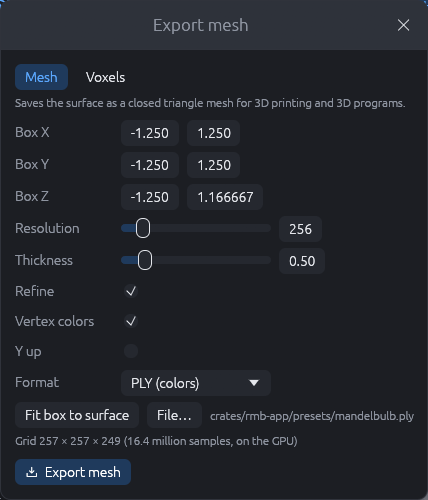
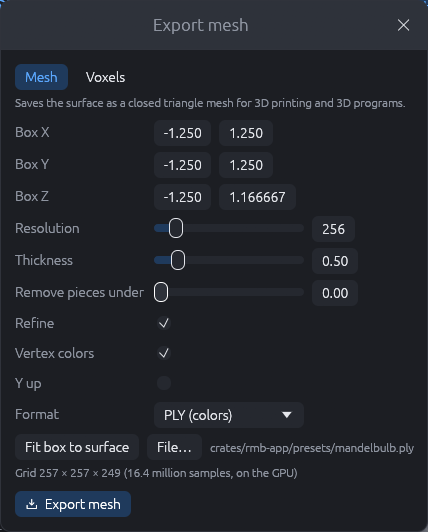
Remove loose mesh pieces and show the export box in the view
Mesh export can drop connected pieces with fewer triangles than a share
of the mesh (the dust around fractal surfaces; Remove pieces under,
rmb-cli mesh --min-piece) and reports how many went. While the mesh or
voxel window is open, the view draws the export box as a wire frame.

diff --git a/crates/rmb-core/src/mesh_export.rs b/crates/rmb-core/src/mesh_export.rs
@@ -72,11 +72,14 @@ pub struct MeshSettings {
     /// Writes y up instead of z up (x, z, -y).
     pub y_up: bool,
     pub format: MeshFormat,
+    /// Removes loose pieces with fewer triangles than this share of the whole mesh (percent;
+    /// 0 keeps everything): the dust around fractal surfaces.
+    pub min_piece: f64,
 }
 
 impl Default for MeshSettings {
     fn default() -> Self {
-        MeshSettings { min: v3(-1.5, -1.5, -1.5), max: v3(1.5, 1.5, 1.5), resolution: 256, thickness: 0.5, colors: true, refine: true, y_up: false, format: MeshFormat::Ply }
+        MeshSettings { min: v3(-1.5, -1.5, -1.5), max: v3(1.5, 1.5, 1.5), resolution: 256, thickness: 0.5, colors: true, refine: true, y_up: false, format: MeshFormat::Ply, min_piece: 0.0 }
     }
 }
 
@@ -278,6 +281,72 @@ pub fn surface_nets(field: &mut dyn Field, grid: &Grid, iso: f32, progress: &mut
     Ok(mesh)
 }
 
+/// Removes the connected pieces with fewer than `min_share` (0..1) of the triangles; returns
+/// how many pieces and triangles went.
+pub fn remove_small_pieces(mesh: &mut Mesh, min_share: f64) -> (usize, usize) {
+    if min_share <= 0.0 || mesh.triangles.is_empty() {
+        return (0, 0);
+    }
+    // Union-find over the vertices.
+    let mut parent: Vec<u32> = (0..mesh.positions.len() as u32).collect();
+    fn root(p: &mut [u32], mut i: u32) -> u32 {
+        while p[i as usize] != i {
+            p[i as usize] = p[p[i as usize] as usize];
+            i = p[i as usize];
+        }
+        i
+    }
+    for t in &mesh.triangles {
+        let a = root(&mut parent, t[0]);
+        for &v in &t[1..] {
+            let b = root(&mut parent, v);
+            if a != b {
+                parent[b as usize] = a;
+            }
+        }
+    }
+    let mut count: std::collections::HashMap<u32, usize> = std::collections::HashMap::new();
+    let roots: Vec<u32> = mesh.triangles.iter().map(|t| root(&mut parent, t[0])).collect();
+    for r in &roots {
+        *count.entry(*r).or_insert(0) += 1;
+    }
+    let min = (mesh.triangles.len() as f64 * min_share).ceil() as usize;
+    let removed_pieces = count.values().filter(|n| **n < min).count();
+    if removed_pieces == 0 {
+        return (0, 0);
+    }
+    let before = mesh.triangles.len();
+    let keep: Vec<[u32; 3]> = mesh.triangles.iter().zip(&roots).filter(|(_, r)| count[r] >= min).map(|(t, _)| *t).collect();
+    // Only the vertices still used, renumbered.
+    let mut map = vec![u32::MAX; mesh.positions.len()];
+    let mut positions = Vec::new();
+    let mut normals = Vec::new();
+    let mut colors = Vec::new();
+    let mut tris = Vec::with_capacity(keep.len());
+    for t in keep {
+        let mut nt = [0u32; 3];
+        for (k, &v) in t.iter().enumerate() {
+            if map[v as usize] == u32::MAX {
+                map[v as usize] = positions.len() as u32;
+                positions.push(mesh.positions[v as usize]);
+                if let Some(n) = mesh.normals.get(v as usize) {
+                    normals.push(*n);
+                }
+                if let Some(c) = mesh.colors.get(v as usize) {
+                    colors.push(*c);
+                }
+            }
+            nt[k] = map[v as usize];
+        }
+        tris.push(nt);
+    }
+    mesh.positions = positions;
+    mesh.normals = normals;
+    mesh.colors = colors;
+    mesh.triangles = tris;
+    (removed_pieces, before - mesh.triangles.len())
+}
+
 /// Area-weighted vertex normals.
 pub fn vertex_normals(mesh: &Mesh) -> Vec<[f32; 3]> {
     let mut acc = vec![V3::ZERO; mesh.positions.len()];
@@ -395,8 +464,9 @@ pub fn fit_bounds(scene: &Scene) -> Option<(V3, V3)> {
 }
 
 /// Exports the scene's surface to `path` (format from the settings). `progress` gets the share
-/// done and returns false to cancel. Returns the vertex and triangle counts.
-pub fn export(scene: &Scene, settings: &MeshSettings, field: Option<&mut dyn Field>, path: &std::path::Path, progress: &mut dyn FnMut(f32) -> bool) -> Result<(usize, usize), String> {
+/// done and returns false to cancel. Returns the vertex and triangle counts and the number of
+/// loose pieces removed.
+pub fn export(scene: &Scene, settings: &MeshSettings, field: Option<&mut dyn Field>, path: &std::path::Path, progress: &mut dyn FnMut(f32) -> bool) -> Result<(usize, usize, usize), String> {
     let prog = Program::for_scene(scene);
     let grid = Grid::new(settings);
     let iso = (settings.thickness.max(0.0) * grid.step) as f32;
@@ -409,6 +479,7 @@ pub fn export(scene: &Scene, settings: &MeshSettings, field: Option<&mut dyn Fie
     let extra = (settings.refine as u32 + (settings.colors && settings.format != MeshFormat::Stl) as u32) as f32 * 0.1;
     let share = 1.0 / (1.0 + extra);
     let mut mesh = surface_nets(field, &grid, iso, &mut |f| progress(f * share))?;
+    let (pieces, _) = remove_small_pieces(&mut mesh, settings.min_piece.max(0.0) / 100.0);
     if mesh.triangles.is_empty() {
         return Err("no surface in the box".into());
     }
@@ -429,7 +500,7 @@ pub fn export(scene: &Scene, settings: &MeshSettings, field: Option<&mut dyn Fie
     }
     write(&mesh, settings.format, path).map_err(|e| format!("{}: {e}", path.display()))?;
     progress(1.0);
-    Ok((mesh.positions.len(), mesh.triangles.len()))
+    Ok((mesh.positions.len(), mesh.triangles.len(), pieces))
 }
 
 /// Writes the mesh in `format`.
@@ -561,6 +632,32 @@ mod tests {
     }
 
     #[test]
+    fn small_loose_pieces_are_removed() {
+        // A big sphere and a small one beside it.
+        struct Two;
+        impl Field for Two {
+            fn slice(&mut self, g: &Grid, z: usize, out: &mut [f32]) -> Result<(), String> {
+                for (i, v) in out.iter_mut().enumerate() {
+                    let p = g.origin + v3((i % g.n[0]) as f64, (i / g.n[0]) as f64, z as f64) * g.step;
+                    let big = p.length() - 0.6;
+                    let small = (p - v3(0.85, 0.0, 0.0)).length() - 0.1;
+                    *v = big.min(small) as f32;
+                }
+                Ok(())
+            }
+        }
+        let s = MeshSettings { min: v3(-1.0, -1.0, -1.0), max: v3(1.0, 1.0, 1.0), resolution: 48, ..MeshSettings::default() };
+        let mut m = surface_nets(&mut Two, &Grid::new(&s), 0.0, &mut |_| true).unwrap();
+        let before = m.triangles.len();
+        let (pieces, tris) = remove_small_pieces(&mut m, 0.1);
+        assert_eq!(pieces, 1);
+        assert!(tris > 0 && m.triangles.len() == before - tris);
+        assert!(closed(&m));
+        assert!(m.positions.iter().all(|p| (p[0] as f64) < 0.7), "the small sphere is gone");
+        assert_eq!(m.normals.len(), m.positions.len());
+    }
+
+    #[test]
     fn surfaces_cut_by_the_box_are_closed() {
         // The sphere is larger than the box: the box faces close it.
         let s = MeshSettings { min: v3(-0.5, -0.5, -0.5), max: v3(0.5, 0.5, 0.5), resolution: 16, ..MeshSettings::default() };
@@ -576,7 +673,7 @@ mod tests {
         for format in MeshFormat::ALL {
             let s = MeshSettings { resolution: 40, format, ..MeshSettings::default() };
             let path = dir.join(format!("bulb.{}", format.extension()));
-            let (v, t) = export(&scene, &s, None, &path, &mut |_| true).unwrap();
+            let (v, t, _) = export(&scene, &s, None, &path, &mut |_| true).unwrap();
             assert!(v > 1000 && t > 2000, "{v} vertices, {t} triangles");
             let len = std::fs::metadata(&path).unwrap().len();
             assert!(len > 50_000, "{format:?}: {len} bytes");

diff --git a/crates/rmb-cli/src/main.rs b/crates/rmb-cli/src/main.rs
@@ -18,7 +18,8 @@ USAGE:
                  [--ffmpeg path] [--audio file [--audio-offset s] | --no-audio]
                  [--shutter fraction]
   rmb-cli mesh <scene> [-o out.ply|.obj|.stl] [-r resolution] [--box x0,y0,z0,x1,y1,z1]
-                 [--thickness cells] [--no-colors] [--no-refine] [--y-up] [--cpu]
+                 [--thickness cells] [--no-colors] [--no-refine] [--y-up] [--min-piece percent]
+                 [--cpu]
   rmb-cli voxels <scene> [-o folder|out.vox] [-r resolution] [--box …] [--thickness cells]
                  [--no-colors] [--hollow] [--cpu]
   rmb-cli --network [--name name] [--key key] [--port n] [--cpu]
@@ -62,7 +63,8 @@ estimates). The extension picks the format: .ply (binary, normals and vertex col
 (normals, vertex colors as `v x y z r g b`), .stl (binary, no colors). -r sets the grid cells
 along the longest side of the box (default 256); --box the sampled box (default: fitted to the
 surface); --thickness how many cells outside the fractal the surface lies (default 0.5; more
-thickens thin parts); --y-up writes y up instead of z up. The distances come from the GPU
+thickens thin parts); --y-up writes y up instead of z up; --min-piece removes loose pieces
+with fewer triangles than that percentage of the mesh. The distances come from the GPU
 unless --cpu is given.
 
 voxels writes the same grid as voxels: a folder of PNG images, one per z layer from the bottom
@@ -199,6 +201,7 @@ fn mesh(args: &[String], voxels: bool) -> Result<(), String> {
             }
             "--hollow" if voxels => vs.hollow = true,
             "--no-refine" => s.refine = false,
+            "--min-piece" => s.min_piece = val("--min-piece")?.parse().map_err(|_| "bad piece size")?,
             "--y-up" => s.y_up = true,
             "--cpu" => cpu = true,
             o if o.starts_with('-') => return Err(format!("unknown option '{o}'")),
@@ -253,8 +256,9 @@ fn mesh(args: &[String], voxels: bool) -> Result<(), String> {
         let (n, files) = rmb_core::voxel_export::export(&scene, &s, &vs, field, &output, &mut report)?;
         format!("{n} voxels in {} file{}", files.len(), if files.len() == 1 { "" } else { "s" })
     } else {
-        let (v, t) = rmb_core::mesh_export::export(&scene, &s, field, &output, &mut report)?;
-        format!("{v} vertices, {t} triangles")
+        let (v, t, pieces) = rmb_core::mesh_export::export(&scene, &s, field, &output, &mut report)?;
+        let removed = if pieces > 0 { format!(", {pieces} loose pieces removed") } else { String::new() };
+        format!("{v} vertices, {t} triangles{removed}")
     };
     eprintln!();
     println!("{} ({summary}, {:.1} s)", output.display(), start.elapsed().as_secs_f64());

diff --git a/crates/rmb-app/src/mesh_dialog.rs b/crates/rmb-app/src/mesh_dialog.rs
@@ -51,6 +51,11 @@ impl MeshDialog {
         MeshDialog { open: false, settings: MeshSettings::default(), path: None, voxels: false, vox: VoxelSettings::default(), vox_path: None, job: None, fitting: None, fitted: None, message: None }
     }
 
+    /// The box to show in the view while the window is open.
+    pub fn shown_box(&self) -> Option<(V3, V3)> {
+        self.open.then_some((self.settings.min, self.settings.max))
+    }
+
     pub fn busy(&self) -> bool {
         self.job.is_some()
     }
@@ -175,6 +180,7 @@ impl MeshDialog {
                         return;
                     }
                     let s = &mut self.settings;
+                    widgets::slider(ui, "Remove pieces under", "Removes loose pieces with fewer triangles than this share of the mesh, in percent (the dust around fractal surfaces, which 3D printers cannot print; 0 keeps everything)", &mut s.min_piece, 0.0..=5.0, d.min_piece);
                     widgets::checkbox(ui, "Refine", "Moves every vertex onto the surface after the grid placed it: sharper edges, a little slower", &mut s.refine);
                     widgets::checkbox(ui, "Vertex colors", "The scene's colors at every vertex (PLY and OBJ; STL has none)", &mut s.colors);
                     widgets::checkbox(ui, "Y up", "Write y as the up axis (many 3D programs; RMandelbulb3D uses z up)", &mut s.y_up);
@@ -299,8 +305,9 @@ impl MeshDialog {
                     let (n, files) = rmb_core::voxel_export::export(&sc, &used, &vox, field, &path, &mut report)?;
                     return Ok(format!("Saved {} ({n} voxels, {} file{})", path.display(), files.len(), if files.len() == 1 { "" } else { "s" }));
                 }
-                let (v, t) = rmb_core::mesh_export::export(&sc, &used, field, &path, &mut report)?;
-                Ok(format!("Saved {} ({v} vertices, {t} triangles)", path.display()))
+                let (v, t, pieces) = rmb_core::mesh_export::export(&sc, &used, field, &path, &mut report)?;
+                let removed = if pieces > 0 { format!(", {pieces} loose pieces removed") } else { String::new() };
+                Ok(format!("Saved {} ({v} vertices, {t} triangles{removed})", path.display()))
             })();
             let _ = tx.send(res);
         });

diff --git a/crates/rmb-app/src/viewport.rs b/crates/rmb-app/src/viewport.rs
@@ -85,6 +85,8 @@ pub struct Viewport {
     pub preview: Option<(Scene, bool, String)>,
     /// Camera path drawn over the image.
     pub overlay: Option<PathOverlay>,
+    /// The mesh / voxel export box, drawn while its window is open.
+    pub export_box: Option<(V3, V3)>,
     /// Flight being recorded.
     pub recording: Option<Recording>,
     /// Draw the lights with their gizmos.
@@ -163,6 +165,7 @@ impl Viewport {
             paused: false,
             preview: None,
             overlay: None,
+            export_box: None,
             recording: None,
             show_lights: true,
             gizmo_mode: Default::default(),
@@ -357,6 +360,9 @@ impl Viewport {
         }
         if self.show_guides && shown_plain {
             crate::gizmos::draw_grid(ui.painter(), &crate::gizmos::Proj::new(&camera, aspect, rect), rect);
+        }
+        if let Some((lo, hi)) = self.export_box.filter(|_| shown_plain) {
+            crate::gizmos::draw_box(ui.painter(), &crate::gizmos::Proj::new(&camera, aspect, rect), rect, lo, hi);
         }
         if shown_plain {
             self.draw_overlay(ui, rect, &camera, aspect);

diff --git a/crates/rmb-app/src/gizmos.rs b/crates/rmb-app/src/gizmos.rs
@@ -699,6 +699,18 @@ pub fn position_text(h: Handle, scene: &Scene) -> Option<String> {
 
 /// Draws the ground grid (plane z = 0) around the camera's spot on it, the x and y axes on
 /// it and the z axis through the origin.
+/// The box of the mesh and voxel export (corners `lo`, `hi`) as a wire frame.
+pub fn draw_box(painter: &Painter, proj: &Proj, rect: Rect, lo: V3, hi: V3) {
+    let painter = painter.with_clip_rect(rect);
+    let c = |i: usize| V3 { x: if i & 1 == 0 { lo.x } else { hi.x }, y: if i & 2 == 0 { lo.y } else { hi.y }, z: if i & 4 == 0 { lo.z } else { hi.z } };
+    let stroke = Stroke::new(1.5, Color32::from_rgba_unmultiplied(255, 200, 80, 220));
+    for (a, b) in [(0, 1), (2, 3), (4, 5), (6, 7), (0, 2), (1, 3), (4, 6), (5, 7), (0, 4), (1, 5), (2, 6), (3, 7)] {
+        if let Some((p, q)) = proj.segment(c(a), c(b)) {
+            painter.line_segment([p, q], stroke);
+        }
+    }
+}
+
 pub fn draw_grid(painter: &Painter, proj: &Proj, rect: Rect) {
     let painter = painter.with_clip_rect(rect);
     let cam = &proj.cam;

diff --git a/crates/rmb-app/src/app.rs b/crates/rmb-app/src/app.rs
@@ -893,6 +893,7 @@ impl eframe::App for App {
                 self.notify(msg);
             }
         }
+        self.view.export_box = self.mesh.shown_box();
         if let Some(msg) = self.mesh.show(&ctx, &self.doc.scene, self.view.gpu_context()) {
             if msg.starts_with("Mesh export failed") {
                 self.notify_err(msg);

diff --git a/docs/manual/15-render-and-export.md b/docs/manual/15-render-and-export.md
@@ -213,6 +213,8 @@ How it works:
 
 ## Mesh and voxel export
 
+While the window is open, the view shows the box as an orange wire frame.
+
 **File › Export mesh…** saves the surface as a closed triangle mesh: for 3D printing, or to
 use the fractal in Blender and other 3D programs. The distance estimate is sampled on a grid in
 a box (on the GPU when there is one), and the surface between the samples becomes the mesh.
@@ -225,6 +227,7 @@ The export runs in the background; the preview pauses meanwhile.
 | Box X, Y, Z | The sampled box (from, to; world units). Opening the window fits it to the scene's surfaces; **Fit box to surface** does that again. Where the surface reaches the box, the mesh is closed by a flat cap, so cutting the box smaller exports a slice. | fitted |
 | Resolution | Grid cells along the longest side of the box. The triangle count grows with its square: about 0.8 million at 256, 4 million at 512, 23 million at 1024 for the Mandelbulb. | 256 |
 | Thickness | How far outside the fractal the surface lies, in grid cells. 0.5 keeps the shape; larger values thicken thin parts so they survive printing. | 0.5 |
+| Remove pieces under | Removes loose pieces with fewer triangles than this share of the mesh, in percent: the dust of small separate bits around fractal surfaces, which printers cannot print. 0 keeps everything; 0.1 removes the dust and keeps the real parts. The status message tells how many pieces went. | 0 |
 | Refine | Moves every vertex onto the surface after the grid placed it: sharper edges, a little slower. | On |
 | Vertex colors | The scene's colors at every vertex (gradient, color maps, texture layers, model colors; no lighting). PLY and OBJ only. | On |
 | Y up | Writes y as the up axis. RMandelbulb3D uses z up, like Blender's PLY import; Blender's OBJ import and many other programs expect y up. | Off |
@@ -254,9 +257,9 @@ resolution and thickness work as for meshes; the grid's samples are the voxels.
 | Format | **PNG slices**: a folder with one image per z layer (`slice_0000.png` is the bottom), seen from above with x to the right; colored voxels on transparency, or white on black. For 3D printers that print from slices, image tools and volume programs. **MagicaVoxel**: one `.vox` model (z up, like the scene). A model holds at most 256 voxels per side, so the resolution is limited to that, and the colors are reduced to a palette of 255. | PNG slices |
 
 !!! note
-    The mesh is closed and every triangle faces outward, but a fractal's mesh can have very
-    many small separate pieces (dust around the surface). Slicers and Blender's *Select linked*
-    / *Delete loose* remove those. Inside rendering and deep zooms beyond about 10⁵ are not
+    The mesh is closed and every triangle faces outward. A fractal's mesh can have many small
+    separate pieces (dust around the surface); **Remove pieces under** takes them out. Inside
+    rendering and deep zooms beyond about 10⁵ are not
     supported (the grid uses single precision on the GPU).
 
 ## Command line: rmb-cli
@@ -316,7 +319,7 @@ output: the scene's name with `.mp4`.
 
 ```
 rmb-cli mesh <scene> [-o out.ply|.obj|.stl] [-r resolution] [--box x0,y0,z0,x1,y1,z1]
-             [--thickness cells] [--no-colors] [--no-refine] [--y-up] [--cpu]
+             [--thickness cells] [--no-colors] [--no-refine] [--y-up] [--min-piece percent] [--cpu]
 ```
 
 Exports the surface as a mesh, like **File › Export mesh…**. The extension of `-o` picks the
@@ -328,6 +331,7 @@ format (default: the scene's name with `.ply`).
 | `--box x0,y0,z0,x1,y1,z1` | The sampled box. Default: fitted to the surface. |
 | `--thickness cells` | How far outside the fractal the surface lies (default 0.5). |
 | `--no-colors`, `--no-refine` | Without vertex colors / without moving the vertices onto the surface. |
+| `--min-piece percent` | Removes loose pieces with fewer triangles than this share of the mesh. |
 | `--y-up` | Writes y as the up axis. |
 | `--cpu` | Computes the distances on the CPU instead of the GPU. |
 

diff --git a/TODO.md b/TODO.md
@@ -175,8 +175,10 @@ Features the two programs have that RMandelbulb3D does not have yet, in the plan
 - [x] Mesh export: distance field sampled on a grid (GPU `grid_main`, or CPU), surface nets
       (closed, caps on the box faces), vertex refinement, vertex colors, PLY/OBJ/STL; File ›
       Export mesh…, `rmb-cli mesh`. Mandelbulber `mesh_export`, MB3D BulbTracer2
-  - [ ] Possible: show the box in the view, remove small loose pieces, mesh decimation,
-        sparse sampling (skip empty blocks; 2048³ grids), texture-baked colors
+  - [x] The box is shown in the view while the window is open; loose pieces below a share of
+        the triangles are removed (Remove pieces under, `--min-piece`)
+  - [ ] Possible: mesh decimation, sparse sampling (skip empty blocks; 2048³ grids),
+        texture-baked colors
 - [x] Voxel export: PNG slices per z layer (colors with transparency or white on black, hollow
       option) and MagicaVoxel `.vox` (≤256³, median-cut palette); File › Export voxels…,
       `rmb-cli voxels`. MB3D `VoxelExport`, Mandelbulber `voxel_export`
